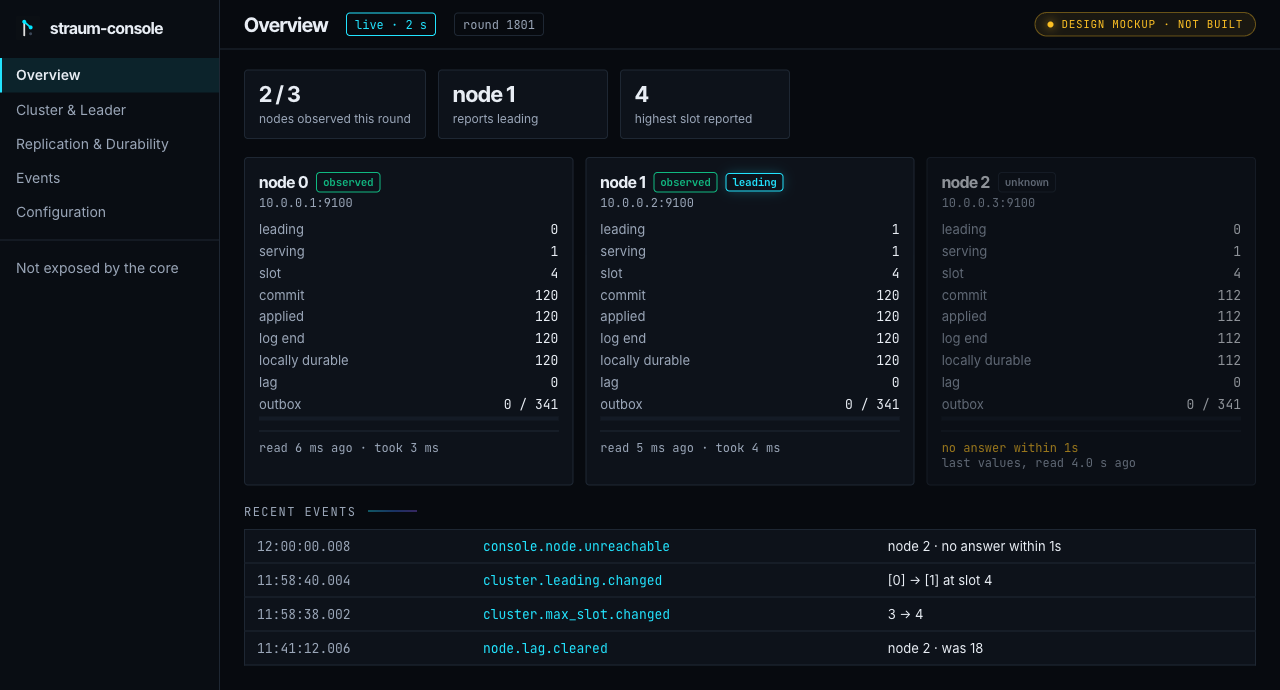
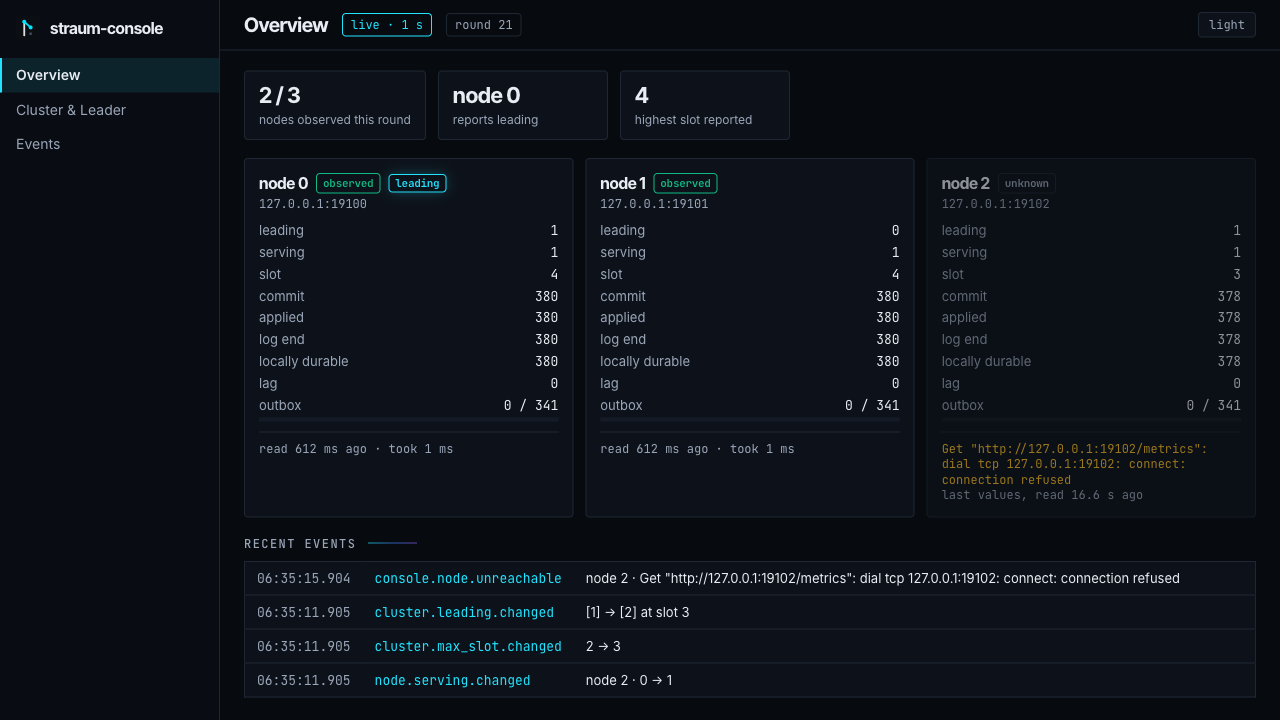
Describe straum-console after Phase D: the web pages and a real screenshot

diff --git a/src/content/docs/ecosystem/straum-console.md b/src/content/docs/ecosystem/straum-console.md
@@ -1,6 +1,6 @@
 ---
 title: straum-console
-description: straum-console is a read-only web console for Straum clusters. Its backend reads every node's stable metrics and serves them as JSON on loopback; the web pages are not built yet.
+description: straum-console is a read-only web console for Straum clusters. It reads every node's stable metrics and shows them on loopback, as web pages and as JSON.
 sidebar:
   order: 2
 ---
@@ -11,21 +11,21 @@ node it came from and how old it is. It is early and experimental, like
 the broker.
 
 :::caution[Early]
-The backend reads the nodes and serves a read-only JSON API on loopback.
-The web pages are not built yet, so there is nothing to open in a browser.
+Three pages so far: Overview, Cluster & Leader and Events. Replication,
+configuration and what the broker does not expose come next.
 :::
 
-![Design mockup of the Overview screen: three node cards, two observed and one unknown with its last values and their age, and a list of recent events](../../../assets/console-overview.png)
+![The Overview screen of a three-node cluster: two nodes observed, node 0 reporting leading; node 2 unknown after it was stopped, its last values dimmed with their age; recent events: node 2 unreachable, a leading change after a handoff, the highest slot changing](../../../assets/console-overview.png)
 
-*A design mockup, not a screenshot: what the Overview screen is meant to
-show.*
+*A three-node cluster on one machine, after a handoff and with node 2
+stopped.*
 
 ## What it is for
 
 Operating a cluster means watching every node at once: who sequences the
 log, how far each one has applied and made durable, who stopped
 answering. Today that takes `straum-cli status` or a Prometheus scraper.
-The console is meant to show it on one live page.
+The console shows it on one live page.
 
 - **Only what the broker promises.** It reads the metrics the broker
   declares stable, through the same Go package as straum-cli. A screen
@@ -55,15 +55,19 @@ make build
 bin/straum-console --node 0=127.0.0.1:9100,1=127.0.0.1:9101,2=127.0.0.1:9102
 ```
 
-Each node is `id=host:port`, with the id the node should report. The
-console serves on `127.0.0.1:8080` (`--listen`, loopback only):
+Each node is `id=host:port`, with the id the node should report. Open
+http://localhost:8080: the console serves on `127.0.0.1:8080` (`--listen`,
+loopback only). The same data is JSON:
 
 ```sh
 curl -s localhost:8080/api/v1/state     # every node, as last read
 curl -sN localhost:8080/api/v1/stream   # the state each round, and what changed
 ```
 
-From another machine, forward the port: `ssh -L 8080:127.0.0.1:8080
+On a cluster of several hosts, the console reaches each node's
+loopback-only metrics listener as its
+[README](https://github.com/straum-io/straum-console#getting-started)
+describes. From another machine, forward the console's port: `ssh -L 8080:127.0.0.1:8080
 <console-host>`.
 
 ## The API
@@ -83,5 +87,5 @@ clearing, a full outbox, a skipped poll round. A reconnecting stream gets
 what it missed, or a `gap` when that is gone or the console restarted. The schema and its compatibility rules are in
 [docs/state-json.md](https://github.com/straum-io/straum-console/blob/main/docs/state-json.md).
 
-Until the web pages exist, [straum-cli](../../ecosystem/straum-cli/)
-shows the cluster in a terminal.
+In a terminal, [straum-cli](../../ecosystem/straum-cli/) `status` shows the
+same nodes once.
